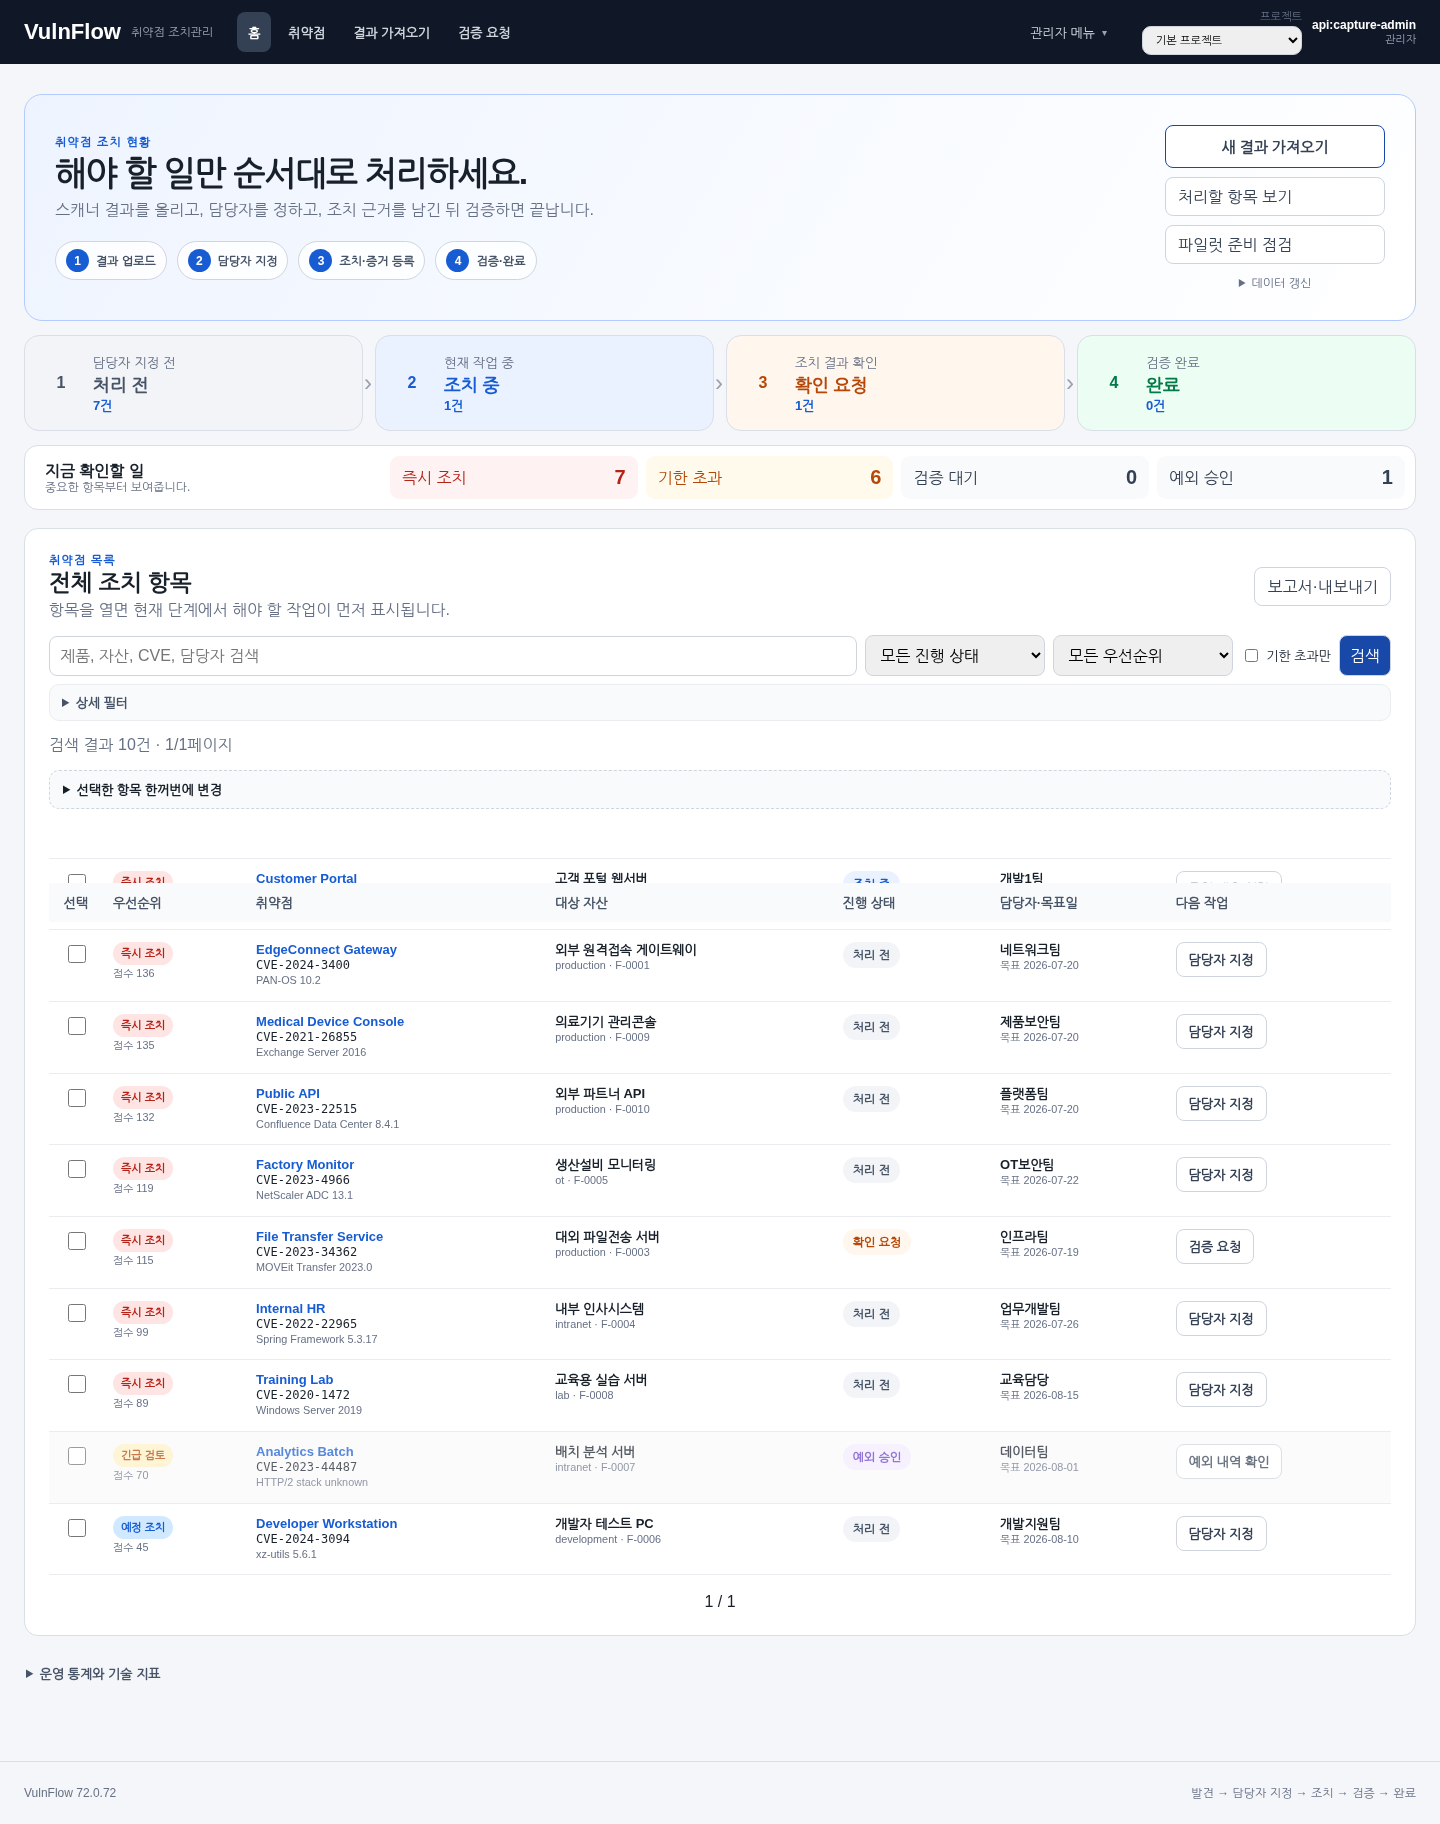
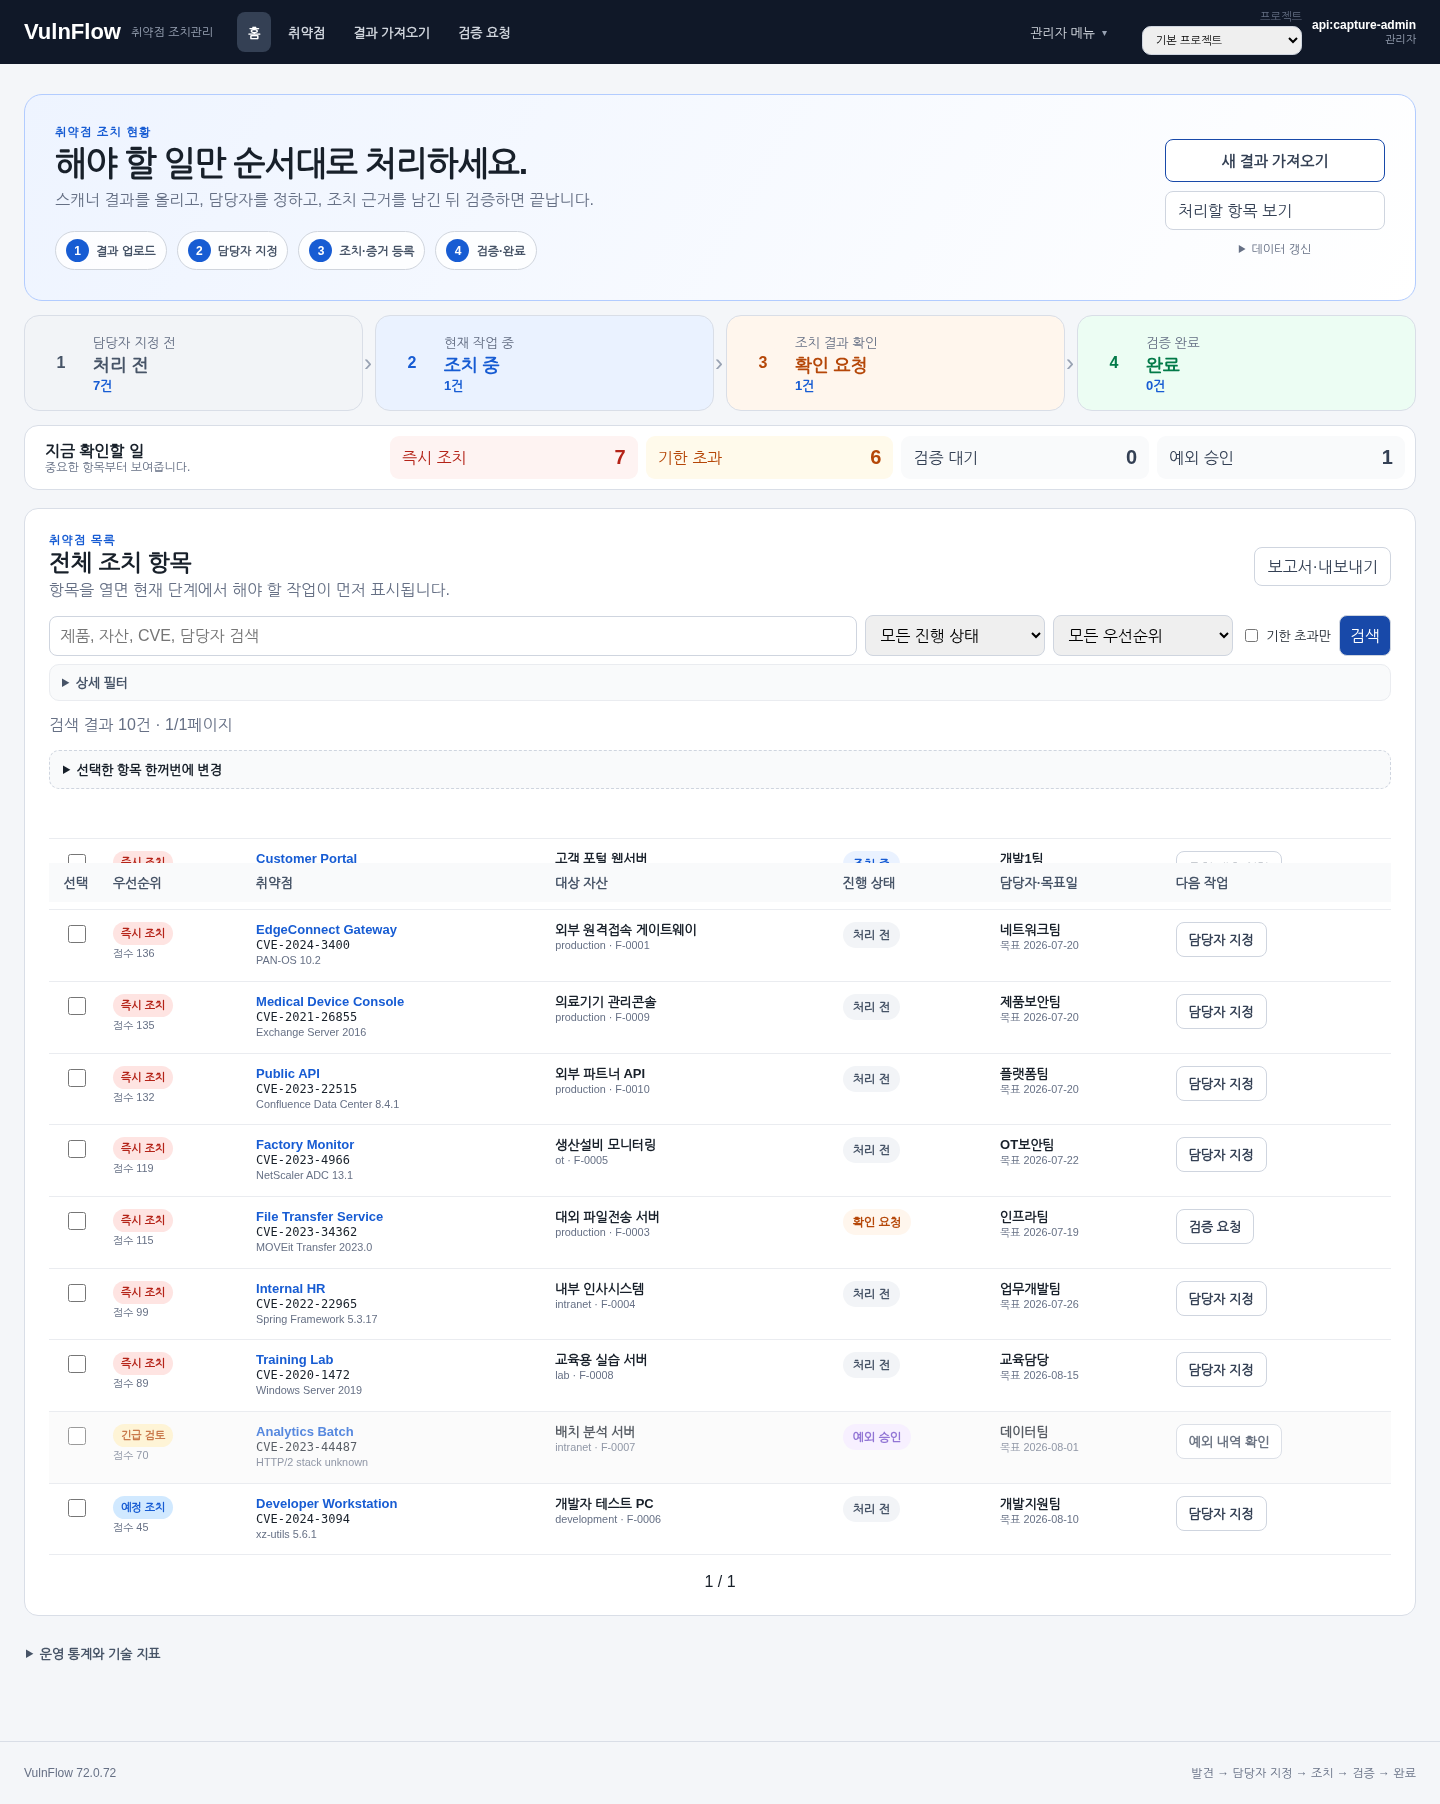
Simplify Free Beta primary workflow navigation (#23)
* Simplify Free Beta primary workflow navigation

* Keep public regression group count stable after UX coverage

---------

diff --git a/app/templates/upload.html b/app/templates/upload.html
@@ -22,25 +22,28 @@
   </form>
 </section>
 
-<section class="panel">
-  <div class="page-heading"><div><h2>공유용 익명화 진단 번들</h2><p>실제 고객 스캐너 파일의 형식은 유지하면서 호스트·IP·계정·자유서술을 제거한 샘플 ZIP을 만듭니다. 원본은 저장하지 않습니다.</p></div><span class="step-badge">파일럿 호환성 수집</span></div>
-  <form class="form easy-upload-form" method="post" action="/upload/findings/anonymize" enctype="multipart/form-data">
-    <input type="hidden" name="csrf_token" value="{{ request.state.csrf_token }}">
-    <label class="file-drop">원본 스캐너 파일 선택<input type="file" name="file" accept=".csv,.xlsx,.nessus,.xml,.omp" required><small>처리는 메모리에서 이루어지며 ZIP에는 원본 파일명과 치환표가 포함되지 않습니다.</small></label>
-    <div class="form-row-two">
-      <label>파일 종류<select name="format_hint"><option value="auto">자동 판별</option><option value="nessus">Nessus</option><option value="openvas">OpenVAS·Greenbone</option><option value="csv">일반 CSV</option><option value="xlsx">Excel XLSX</option></select></label>
-      <label>익명화 수준<select name="profile"><option value="compatibility">호환성 우선</option><option value="strict">엄격 익명화</option></select><small>엄격 모드는 제품·플러그인·버전 값도 가명 처리합니다.</small></label>
-    </div>
-    <button>익명화 진단 ZIP 만들기</button>
-  </form>
-  <p class="meta safety-note">자동 익명화는 구조화된 식별자 중심입니다. 생성된 샘플과 익명화 보고서를 사람이 다시 검토한 뒤 공유하세요.</p>
-</section>
-
 <section class="upload-guide">
   <article><span>1</span><div><strong>파일 선택</strong><p>Nessus·OpenVAS·CSV·Excel 결과를 고릅니다.</p></div></article>
   <article><span>2</span><div><strong>미리보기·열 연결</strong><p>필수 열과 오류 행을 반영 전에 확인합니다.</p></div></article>
   <article><span>3</span><div><strong>목록 반영</strong><p>검증된 항목만 넣고 담당자를 지정합니다.</p></div></article>
 </section>
+
+<details class="advanced-section upload-advanced compatibility-support">
+  <summary>가져오기 문제 신고용 익명화 도구</summary>
+  <div class="advanced-section-body">
+    <p>일반 가져오기가 실패하거나 scanner 호환성 문제를 신고할 때만 사용하세요. 실제 고객 파일의 형식은 유지하면서 호스트·IP·계정·자유서술을 제거한 공유용 ZIP을 만듭니다.</p>
+    <form class="form easy-upload-form" method="post" action="/upload/findings/anonymize" enctype="multipart/form-data">
+      <input type="hidden" name="csrf_token" value="{{ request.state.csrf_token }}">
+      <label class="file-drop">원본 스캐너 파일 선택<input type="file" name="file" accept=".csv,.xlsx,.nessus,.xml,.omp" required><small>처리는 메모리에서 이루어지며 ZIP에는 원본 파일명과 치환표가 포함되지 않습니다.</small></label>
+      <div class="form-row-two">
+        <label>파일 종류<select name="format_hint"><option value="auto">자동 판별</option><option value="nessus">Nessus</option><option value="openvas">OpenVAS·Greenbone</option><option value="csv">일반 CSV</option><option value="xlsx">Excel XLSX</option></select></label>
+        <label>익명화 수준<select name="profile"><option value="compatibility">호환성 우선</option><option value="strict">엄격 익명화</option></select><small>엄격 모드는 제품·플러그인·버전 값도 가명 처리합니다.</small></label>
+      </div>
+      <button>익명화 진단 ZIP 만들기</button>
+    </form>
+    <p class="meta">자동 익명화는 구조화된 식별자 중심입니다. 생성된 샘플과 익명화 보고서를 사람이 다시 검토한 뒤 공유하세요.</p>
+  </div>
+</details>
 
 <details class="advanced-section upload-advanced">
   <summary>대용량 파일을 작업 큐에서 처리</summary>
@@ -71,5 +74,5 @@
   </div>
 </details>
 
-<p class="meta safety-note">민감정보가 포함된 파일을 외부에 공유할 때는 위 익명화 진단 번들을 사용하세요. 우선순위 점수는 검토 순서를 돕는 값이며 조직의 최종 위험 결정을 대신하지 않습니다.</p>
+<p class="meta safety-note">민감정보가 포함된 scanner 호환성 문제를 신고할 때는 위 익명화 도구를 사용하세요. 우선순위 점수는 검토 순서를 돕는 값이며 조직의 최종 위험 결정을 대신하지 않습니다.</p>
 {% endblock %}

diff --git a/app/static/style.css b/app/static/style.css
@@ -152,3 +152,15 @@
 /* Pilot launch center */
 .pilot-heading{align-items:flex-end}.pilot-readiness-banner{display:flex;justify-content:space-between;align-items:center;gap:24px;padding:24px;border-radius:18px;margin:20px 0;border:1px solid var(--border,#d7deea)}
 .pilot-readiness-banner.ready{background:#edf9f1;border-color:#9dd7ae}.pilot-readiness-banner.pending{background:#fff8e8;border-color:#e8cb79}.pilot-readiness-banner h2{margin:6px 0}.pilot-readiness-banner p{margin:0;color:#667085}.readiness-score{width:92px;height:92px;border-radius:50%;display:grid;place-items:center;background:#fff;border:8px solid rgba(36,86,214,.16);font-weight:800;font-size:30px}.readiness-score small{font-size:13px;margin-left:-18px;margin-top:35px}.pilot-check-grid{display:grid;grid-template-columns:repeat(2,minmax(0,1fr));gap:12px}.pilot-check{display:grid;grid-template-columns:38px minmax(0,1fr) auto;gap:12px;align-items:center;border:1px solid #d8dee9;border-radius:12px;padding:14px}.pilot-check.passed{background:#f3fbf5;border-color:#b7dfc1}.pilot-check.pending{background:#fffaf0}.pilot-check-status{width:32px;height:32px;border-radius:50%;display:grid;place-items:center;font-weight:800;background:#eef1f7}.pilot-check.passed .pilot-check-status{background:#d7f2df;color:#18753a}.pilot-check.pending .pilot-check-status{background:#ffedbd;color:#8a5b00}.pilot-check p{margin:3px 0;color:#667085;font-size:13px}.pilot-check span{font-size:11px;color:#667085}.pilot-check a{white-space:nowrap}.pilot-profile-form textarea{width:100%;resize:vertical}.pilot-next-actions .pilot-steps{display:grid;grid-template-columns:repeat(5,minmax(0,1fr));gap:10px}.pilot-next-actions .pilot-steps li{align-items:flex-start}.pilot-next-actions .pilot-steps small{display:block;color:#667085;margin-top:5px;line-height:1.4}@media(max-width:900px){.pilot-check-grid{grid-template-columns:1fr}.pilot-next-actions .pilot-steps{grid-template-columns:1fr}.pilot-readiness-banner{align-items:flex-start}.readiness-score{flex:0 0 auto}}
+
+/* Free Beta progressive-disclosure cleanup */
+.admin-menu{grid-template-columns:1fr 1fr;min-width:520px}
+.nav-menu-section{display:grid;align-content:start;gap:2px}
+.nav-menu-section>strong{padding:7px 11px 5px;color:#667085;font-size:11px;text-transform:uppercase;letter-spacing:.06em}
+.nav-menu-advanced{grid-column:1/-1;border-top:1px solid #eaecf0;padding-top:5px;margin-top:3px}
+.nav-menu-advanced details>summary{cursor:pointer;padding:9px 11px;color:#475467;font-size:12px;font-weight:800;list-style:none}
+.nav-menu-advanced details>summary::-webkit-details-marker{display:none}
+.nav-menu-advanced details>summary::after{content:'▾';margin-left:6px;color:#98a2b3;font-size:10px}
+.nav-advanced-links{display:grid;grid-template-columns:1fr 1fr;gap:2px;padding:0 2px 4px}
+.compatibility-support>summary{color:#475467}
+@media(max-width:700px){.admin-menu{min-width:0}.nav-advanced-links{grid-template-columns:1fr}}

diff --git a/app/templates/base.html b/app/templates/base.html
@@ -28,40 +28,43 @@
         <summary>관리자 메뉴</summary>
         <div class="nav-menu nav-menu-wide admin-menu">
           <div class="nav-menu-section">
-            <strong>운영</strong>
+            <strong>일상 운영</strong>
             <a href="/assets">자산 관리</a>
             <a href="/campaigns">조치 캠페인</a>
             {% if request.state.role in ['operator','approver','admin'] %}<a href="/approvals">예외 승인</a>{% endif %}
-            <a href="/exposure-groups">노출 군집</a>
-          </div>
-          <div class="nav-menu-section">
-            <strong>데이터</strong>
             <a href="/imports">가져오기 이력</a>
             <a href="/reconciliation">스캐너 조정</a>
-            <a href="/sboms">SBOM·VEX</a>
             <a href="/exports">내보내기</a>
           </div>
           <div class="nav-menu-section">
-            <strong>설정·감사</strong>
-            <a href="/audit">변경 이력</a>
+            <strong>운영 설정</strong>
             <a href="/policies">우선순위 정책</a>
             <a href="/jobs">작업 큐</a>
             {% if request.state.role in ['operator','approver','admin'] %}<a href="/config-changes">구성 변경</a>{% endif %}
-          </div>
-          {% if request.state.role=='admin' %}
-          <div class="nav-menu-section">
-            <strong>시스템</strong>
-            <a href="/pilot">파일럿 시작 센터</a>
+            {% if request.state.role=='admin' %}
+            <a href="/pilot">운영 준비 점검</a>
             <a href="/projects">고객사·프로젝트</a>
             <a href="/admin/users">사용자 관리</a>
-            <a href="/maintenance">유지관리</a>
             <a href="/integrations">이메일·Jira 연동</a>
-            <a href="/webhooks">웹훅</a>
-            <a href="/execution-receipts">실행 영수증</a>
-            <a href="/system">백업·복구</a>
-            <a href="/cluster">인스턴스</a>
+            {% endif %}
           </div>
-          {% endif %}
+          <div class="nav-menu-section nav-menu-advanced">
+            <details>
+              <summary>고급 기능</summary>
+              <div class="nav-advanced-links">
+                <a href="/exposure-groups">노출 군집</a>
+                <a href="/sboms">SBOM·VEX</a>
+                <a href="/audit">감사·무결성</a>
+                {% if request.state.role=='admin' %}
+                <a href="/maintenance">유지관리</a>
+                <a href="/webhooks">웹훅</a>
+                <a href="/execution-receipts">실행 영수증</a>
+                <a href="/system">백업·복구</a>
+                <a href="/cluster">인스턴스</a>
+                {% endif %}
+              </div>
+            </details>
+          </div>
         </div>
       </details>
     </nav>

diff --git a/app/templates/dashboard.html b/app/templates/dashboard.html
@@ -20,7 +20,6 @@
   <div class="hero-actions">
     <a class="button-link primary large-action" href="/upload">새 결과 가져오기</a>
     <a class="button-link" href="/?status=OPEN#findings">처리할 항목 보기</a>
-    {% if request.state.role == 'admin' %}<a class="button-link" href="/pilot">파일럿 준비 점검</a>{% endif %}
     <details class="maintenance-actions">
       <summary>데이터 갱신</summary>
       <form method="post" action="/refresh-intel"><input type="hidden" name="csrf_token" value="{{ request.state.csrf_token }}"><button>KEV·EPSS 갱신</button></form>

diff --git a/tests/test_public_repository_maintenance.py b/tests/test_public_repository_maintenance.py
@@ -134,8 +134,23 @@ def test_dashboard_uses_simple_primary_navigation_with_advanced_menu(client) -> 
     assert html.count('class="nav-group') == 1
     for label in ("홈", "취약점", "결과 가져오기", "검증 요청", "관리자 메뉴"):
         assert label in html
+    assert "일상 운영" in html
+    assert "운영 설정" in html
+    assert '<div class="nav-menu-section nav-menu-advanced">' in html
+    assert "고급 기능" in html
+    assert "파일럿 준비 점검" not in html
     assert 'href="/export/findings.csv"' not in html
     assert 'href="/export/recovery-bundle.zip"' not in html
+
+    upload = client.get("/upload")
+    assert upload.status_code == 200
+    upload_html = upload.text
+    assert "취약점 결과를 가져오세요." in upload_html
+    assert "파일 분석하고 미리보기" in upload_html
+    assert '<details class="advanced-section upload-advanced compatibility-support">' in upload_html
+    assert "가져오기 문제 신고용 익명화 도구" in upload_html
+    assert upload_html.index("파일 분석하고 미리보기") < upload_html.index("가져오기 문제 신고용 익명화 도구")
+    assert "파일럿 호환성 수집" not in upload_html
 
 
 def test_dashboard_prioritizes_four_step_workflow_and_progressive_filters(client) -> None:
